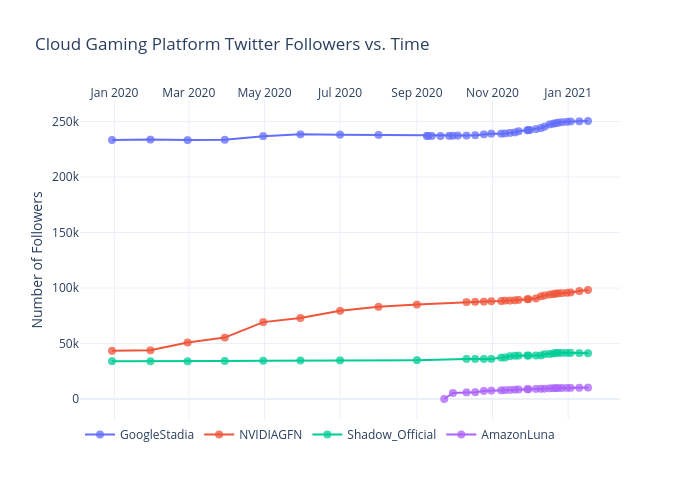
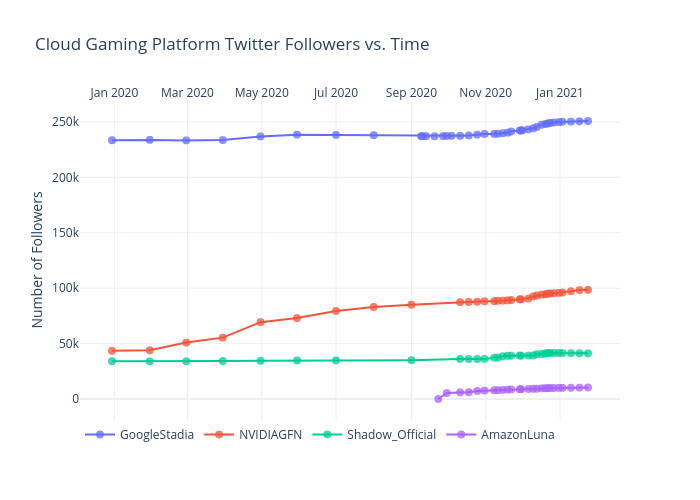
Add files via upload

diff --git a/twitter_platforms/figure.js b/twitter_platforms/figure.js
@@ -117,7 +117,10 @@ var figure = {
                 "249801",
                 "250126",
                 "250233",
-                "250542"
+                "250542",
+                null,
+                null,
+                "250802"
             ],
             "marker": {
                 "size": 8,
@@ -244,7 +247,10 @@ var figure = {
                 "95713",
                 "96022",
                 "97258",
-                "98245"
+                "98245",
+                null,
+                null,
+                "98497"
             ],
             "marker": {
                 "size": 8,
@@ -371,7 +377,10 @@ var figure = {
                 "41531",
                 "41483",
                 "41357",
-                "41268"
+                "41268",
+                null,
+                null,
+                "41207"
             ],
             "marker": {
                 "size": 8,
@@ -498,7 +507,10 @@ var figure = {
                 "10009",
                 "10032",
                 "10131",
-                "10271"
+                "10271",
+                null,
+                null,
+                "10398"
             ],
             "marker": {
                 "size": 8,
@@ -517,8 +529,8 @@ var figure = {
             "side": "top",
             "type": "date",
             "range": [
-                "2019-12-06 06:10:46.4145",
-                "2021-02-09 17:49:13.5855"
+                "2019-12-05 19:47:31.9481",
+                "2021-02-17 04:12:28.0519"
             ],
             "title": {
                 "text": ""
@@ -528,8 +540,8 @@ var figure = {
         "yaxis": {
             "type": "linear",
             "range": [
-                -17926.77425856608,
-                268468.7742585661
+                -19936.65187419216,
+                270738.6518741922
             ],
             "title": {
                 "text": "Number of Followers"
